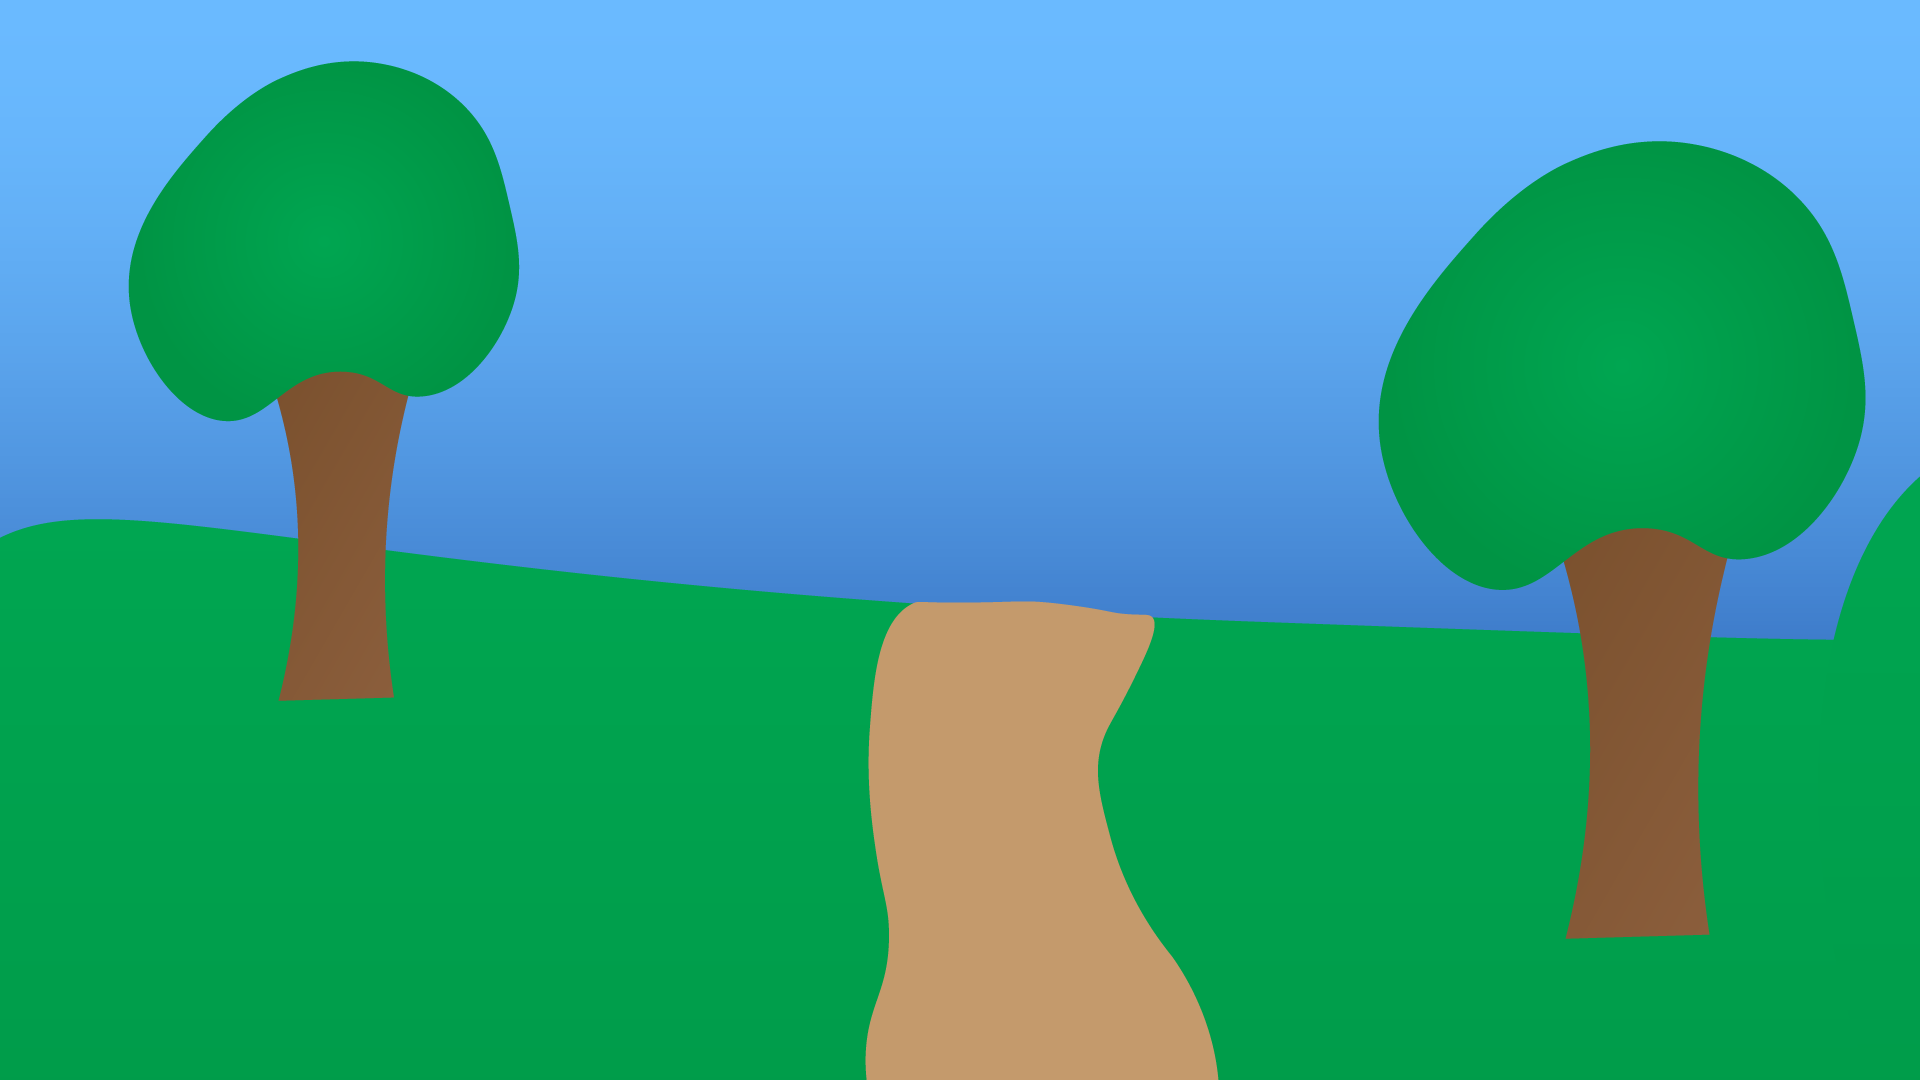
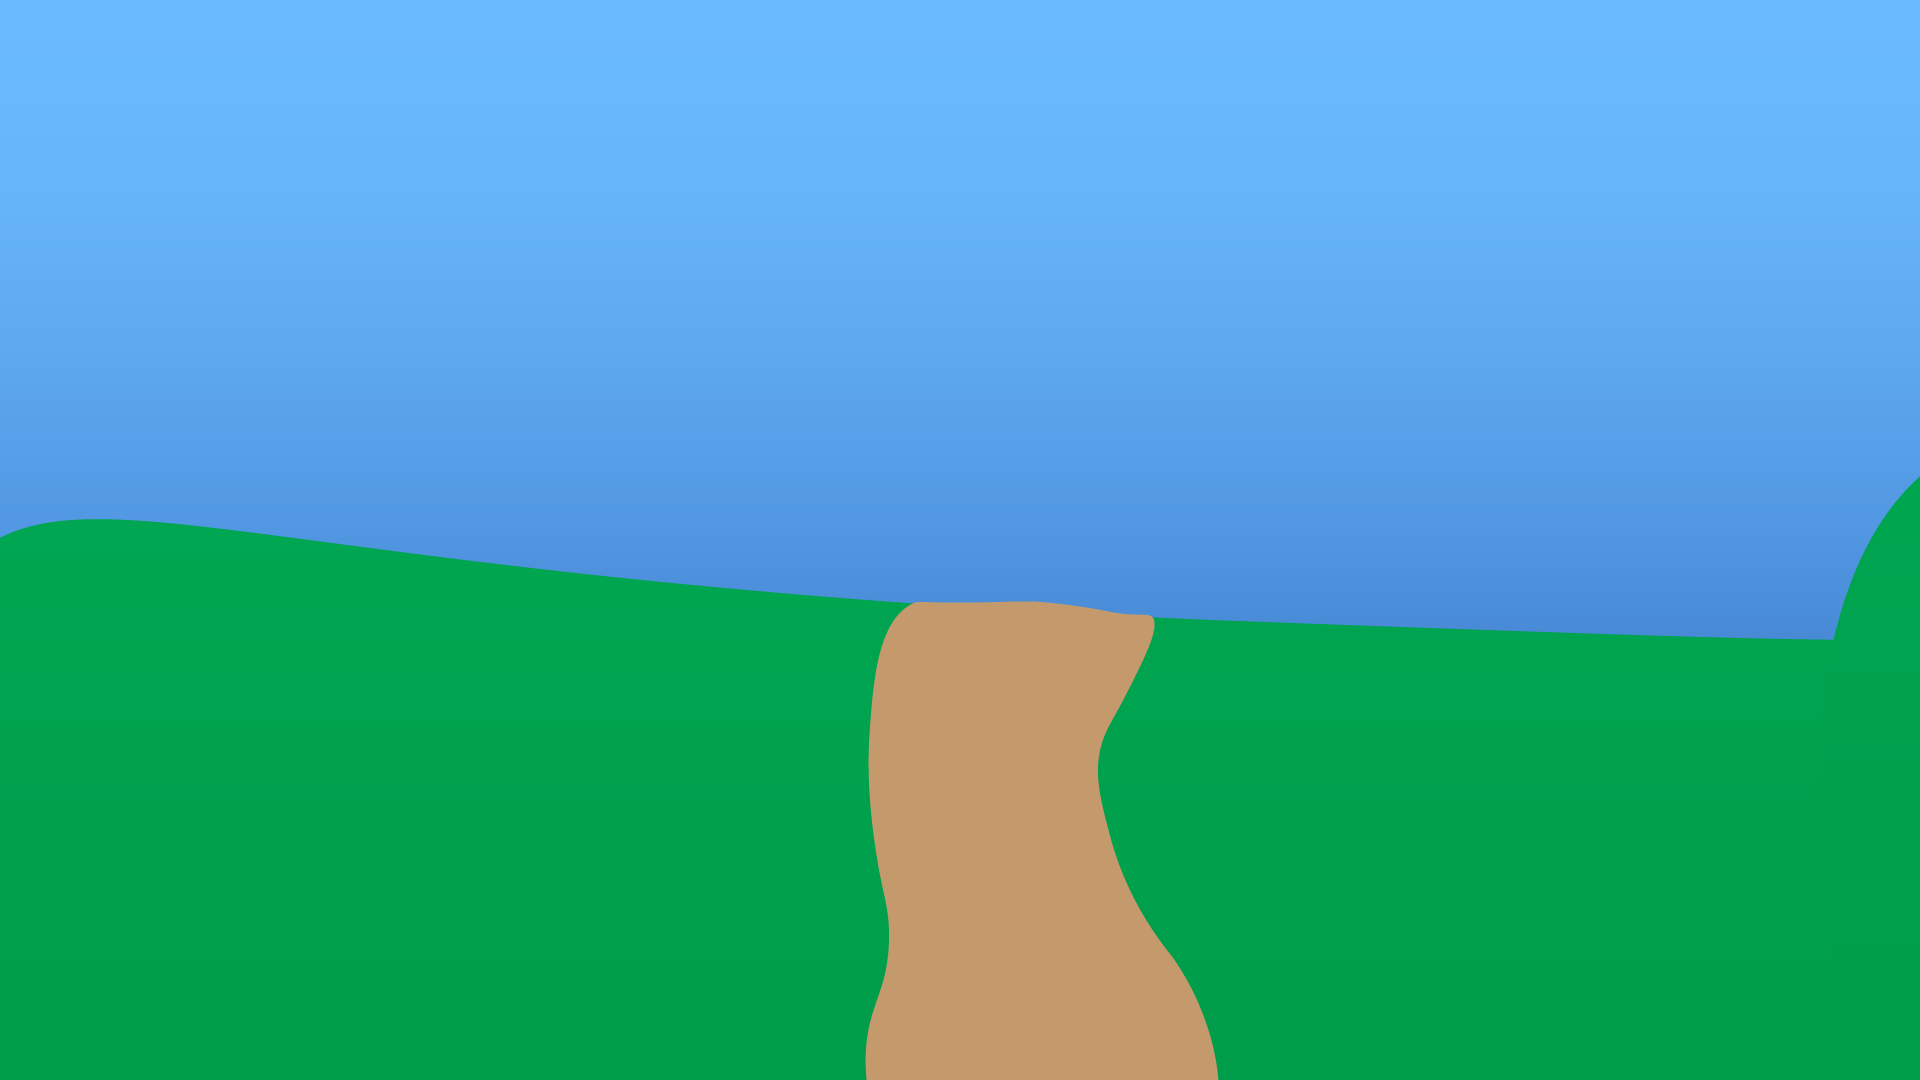
Updated Scene0

Changed region(s): [[0.7188, 0.1222, 0.9688, 0.8861], [0.0625, 0.0611, 0.2812, 0.6722]]

diff --git a/Assets/Style/index.css b/Assets/Style/index.css
@@ -280,6 +280,52 @@
   }
 }
 
+@-webkit-keyframes leafMoving {
+  0% {
+    -webkit-transform: skew(0deg 0deg);
+            transform: skew(0deg 0deg);
+  }
+  25% {
+    -webkit-transform: skew(5deg -5deg);
+            transform: skew(5deg -5deg);
+  }
+  50% {
+    -webkit-transform: skew(0deg 0deg);
+            transform: skew(0deg 0deg);
+  }
+  75% {
+    -webkit-transform: skew(-5deg 5deg);
+            transform: skew(-5deg 5deg);
+  }
+  100% {
+    -webkit-transform: skew(0deg 0deg);
+            transform: skew(0deg 0deg);
+  }
+}
+
+@keyframes leafMoving {
+  0% {
+    -webkit-transform: skew(0deg 0deg);
+            transform: skew(0deg 0deg);
+  }
+  25% {
+    -webkit-transform: skew(5deg -5deg);
+            transform: skew(5deg -5deg);
+  }
+  50% {
+    -webkit-transform: skew(0deg 0deg);
+            transform: skew(0deg 0deg);
+  }
+  75% {
+    -webkit-transform: skew(-5deg 5deg);
+            transform: skew(-5deg 5deg);
+  }
+  100% {
+    -webkit-transform: skew(0deg 0deg);
+            transform: skew(0deg 0deg);
+  }
+}
+
 html,
 body {
   color: black;
@@ -476,6 +522,7 @@ body * {
   color: white;
   font-weight: 400;
   font-size: 3em;
+  z-index: 10;
 }
 
 #slide0 .slide0__background {
@@ -504,8 +551,38 @@ body * {
   opacity: 0;
 }
 
+#slide0 .slide0__trees {
+  position: absolute;
+  width: 100vw;
+  height: 100vh;
+}
+
+#slide0 .slide0__trees img {
+  position: fixed;
+  top: 20vh;
+  left: 4vw;
+  width: 30vh;
+}
+
+#slide0 .slide0__trees .slide0__trees--right {
+  top: 40vh;
+  right: 7vw;
+  left: initial;
+}
+
 #slide0 .slide__narration {
   margin-bottom: 50vh;
+}
+
+#credits .credits__title {
+  font-size: 4em;
+  font-weight: 100;
+  font-family: 'Dancing Script', cursive;
+}
+
+#credits .credits__name {
+  font-size: 2em;
+  font-weight: 200;
 }
 
 @media screen and (max-width: 768px) {

diff --git a/index.html b/index.html
@@ -14,7 +14,7 @@
 <body>
     <div class="loadingOverlay">
         <div id="loadingOverlay__progress">
-            <p id="loadingOverlay__slide">0 / 30</p>
+            <p id="loadingOverlay__slide"></p>
             <div id="loadingOverlay__progress__bar"></div>
         </div>
     </div>
@@ -45,7 +45,13 @@
         <p class="slide__narration">
             I met a child a year ago
         </p>
-        <div class="slide0__people"><img id="scene0__people" src="Assets/Img/scene0_people.svg"></div>
+        <div class="slide0__people">
+            <img id="scene0__people" src="Assets/Img/slide0_people.svg">
+        </div>
+        <div class="slide0__trees">
+            <img src="Assets/Img/slide0_tree.svg">
+            <img class="slide0__trees--right" src="Assets/Img/slide0_tree.svg">
+        </div>
         <div class="slide0__background"></div>
     </div>
     <div id="slide1" class="slide hidden">
@@ -157,8 +163,10 @@
         </p>
     </div>
     <div id="credits" class="slide hidden">
-        <h1 class="credits__title">Created by:</h1>
-        <h2 class="credits__name">Sivert Gullberg Hansen</h2>
+        <div>
+            <h1 class="credits__title">Created by:</h1>
+            <h2 class="credits__name">Sivert Gullberg Hansen</h2>
+        </div>
     </div>
 </body>
 <script src="Assets/Js/App.js"></script>

diff --git a/Assets/Js/ScrollManager.js b/Assets/Js/ScrollManager.js
@@ -5,7 +5,7 @@ var readyToScroll = false; // Is the user allowed to scroll?
 var scrollDelay = 5000; // Milliseconds - How long will we temporarily disable users scroll?
 var introDelay = 10000; // Milliseconds - How long will we temporarily disable users scroll?
 var scrollIndex = 0; // Which slide are we on?
-var maxSlides = 30; // How many slides do we have?
+var maxSlides = 19; // How many slides do we have?
 
 // Check if the user scrolls with the mousewheel, page up/down keys or the arrow keys
 document.addEventListener("scroll", function () {
@@ -46,7 +46,7 @@ function readyScrolling(time) {
 function scrollDown() {
     readyToScroll = false;
     scrollIndex += 1;
-    document.getElementById("loadingOverlay__slide").innerHTML = scrollIndex + " / 30";
+    document.getElementById("loadingOverlay__slide").innerHTML = scrollIndex + " / " + (maxSlides + 1);
     scrollToSlide(scrollIndex);
     readyScrolling(scrollDelay);
 }
@@ -67,7 +67,8 @@ function scrollToSlide(index) {
 
 // Stop user from scrolling until introduction has finished
 window.addEventListener('load', function () {
-    readyScrolling(introDelay)
+    readyScrolling(introDelay);
+    document.getElementById("loadingOverlay__slide").innerHTML = scrollIndex + " / " + (maxSlides + 1);
 });
 
 // Loading Bar Function

diff --git a/Assets/Style/_global.scss b/Assets/Style/_global.scss
@@ -162,6 +162,7 @@ body {
         color: $NarratorColour0;
         font-weight: 400;
         font-size: 3em;
+        z-index: 10;
     }
 }
 
@@ -188,15 +189,42 @@ body {
         }
     }
 
+    .slide0__trees {
+        position: absolute;
+        width: 100vw;
+        height: 100vh;
+
+        img {
+            position: fixed;
+            top: 20vh;
+            left: 4vw;
+            width: 30vh;
+        }
+
+        .slide0__trees--right {
+            top: 40vh;
+            right: 7vw;
+            left: initial;
+        }
+    }
+
+
     .slide__narration {
         margin-bottom: 50vh;
     }
 }
 
 #credits {
-    .credits__title {}
+    .credits__title {
+        font-size: 4em;
+        font-weight: 100;
+        @include title_font;
+    }
 
-    .credits__name {}
+    .credits__name {
+        font-size: 2em;
+        font-weight: 200;
+    }
 }
 
 // Desktops, large screens

diff --git a/Assets/Animations/_scene0.scss b/Assets/Animations/_scene0.scss
@@ -26,3 +26,25 @@
         opacity: 100%;
     }
 }
+
+@keyframes leafMoving {
+    0% {
+        transform: skew(0deg 0deg);
+    }
+
+    25% {
+        transform: skew(5deg -5deg);
+    }
+
+    50% {
+        transform: skew(0deg 0deg);
+    }
+
+    75% {
+        transform: skew(-5deg 5deg);
+    }
+
+    100% {
+        transform: skew(0deg 0deg);
+    }
+}
